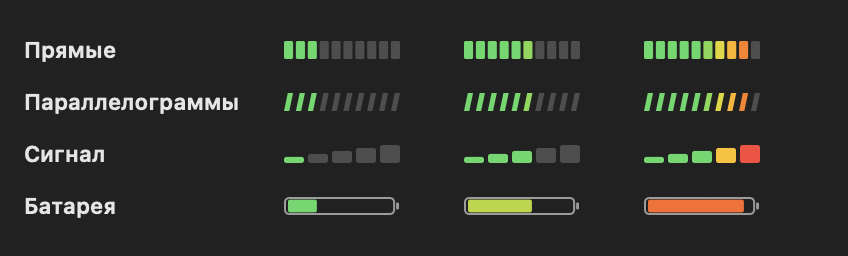
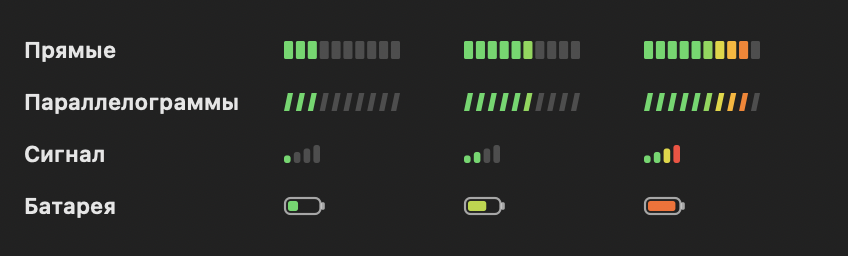
Сигнал и батарея — компактные, естественных пропорций
- Ширина шкалы теперь зависит от формы (shapeWidth), не растягивается на 58px
- Сигнал: 4 узких столбика вплотную, как на iPhone (100%÷4 = 25% на столбик)
- Батарея: пропорции menu-bar батарейки macOS (~2:1) вместо вытянутой
- Превью --shapes рисует формы естественной шириной

diff --git a/ClaudeBar.swift b/ClaudeBar.swift
@@ -142,38 +142,52 @@ func drawSegments(_ rect: NSRect, _ frac: CGFloat, dark: Bool, mono: Bool, skew:
     }
 }
 
-// Форма 2 (сигнал): 5 столбиков растущей высоты, как индикатор сети телефона.
+// Форма 2 (сигнал): 4 узких столбика растущей высоты, компактно — как сеть iPhone.
 func drawSignal(_ rect: NSRect, _ frac: CGFloat, dark: Bool, mono: Bool) {
-    let n = 5, gap: CGFloat = 2.0
+    let n = 4, gap: CGFloat = 1.6
     let bw = (rect.width - CGFloat(n-1)*gap) / CGFloat(n)
     let lit = litCount(frac, n)
-    let minH = rect.height * 0.34
+    let minH = rect.height * 0.42
     for i in 0..<n {
         let h = minH + (rect.height - minH) * CGFloat(i) / CGFloat(n-1)
         let x = rect.minX + CGFloat(i)*(bw+gap)
-        let path = NSBezierPath(roundedRect: NSRect(x: x, y: rect.minY, width: bw, height: h), xRadius: 1.2, yRadius: 1.2)
+        let path = NSBezierPath(roundedRect: NSRect(x: x, y: rect.minY, width: bw, height: h),
+                                xRadius: min(bw/2, 1.3), yRadius: min(bw/2, 1.3))
         (i < lit ? litColor(CGFloat(i)/CGFloat(n-1), mono: mono, dark: dark) : dimColor(dark: dark)).setFill()
         path.fill()
     }
 }
 
-// Форма 3 (батарея): корпус macOS-батарейки с носиком, заливка по доле (моя версия).
+// Форма 3 (батарея): пропорции menu-bar батарейки macOS (корпус + носик), заливка по доле.
 func drawBattery(_ rect: NSRect, _ frac: CGFloat, dark: Bool, mono: Bool) {
-    let nubW = max(1.4, rect.height * 0.16)
-    let body = NSRect(x: rect.minX, y: rect.minY, width: rect.width - nubW - 1, height: rect.height)
-    let stroke = dark ? NSColor(white: 1, alpha: 0.55) : NSColor(white: 0, alpha: 0.45)
-    let outline = NSBezierPath(roundedRect: body.insetBy(dx: 0.5, dy: 0.5), xRadius: 2, yRadius: 2)
-    outline.lineWidth = 1
+    let nubW = max(1.2, rect.height * 0.22)
+    let body = NSRect(x: rect.minX, y: rect.minY, width: rect.width - nubW, height: rect.height)
+    let stroke = dark ? NSColor(white: 1, alpha: 0.6) : NSColor(white: 0, alpha: 0.5)
+    let outline = NSBezierPath(roundedRect: body.insetBy(dx: 0.5, dy: 0.5),
+                               xRadius: rect.height*0.3, yRadius: rect.height*0.3)
+    outline.lineWidth = max(1, rect.height*0.12)
     stroke.setStroke(); outline.stroke()
-    let nub = NSBezierPath(roundedRect: NSRect(x: body.maxX + 0.5, y: rect.minY + rect.height*0.3, width: nubW, height: rect.height*0.4),
-                           xRadius: nubW/2, yRadius: nubW/2)
+    let nubH = rect.height * 0.42
+    let nub = NSBezierPath(roundedRect: NSRect(x: body.maxX - 0.3, y: rect.minY + (rect.height-nubH)/2, width: nubW, height: nubH),
+                           xRadius: nubW*0.4, yRadius: nubW*0.4)
     stroke.setFill(); nub.fill()
-    let inset = body.insetBy(dx: 2, dy: 1.3)
+    let pad = rect.height * 0.22
+    let inner = body.insetBy(dx: pad, dy: pad)
     let f = max(0, min(1, frac))
-    let fw = f <= 0 ? 0 : max(inset.height * 0.4, inset.width * f)
-    let fill = NSBezierPath(roundedRect: NSRect(x: inset.minX, y: inset.minY, width: fw, height: inset.height), xRadius: 1, yRadius: 1)
+    let fw = f <= 0 ? 0 : max(inner.height, inner.width * f)      // мин. = квадратик
+    let fill = NSBezierPath(roundedRect: NSRect(x: inner.minX, y: inner.minY, width: fw, height: inner.height),
+                            xRadius: rect.height*0.14, yRadius: rect.height*0.14)
     (mono ? (dark ? NSColor(white: 0.95, alpha: 1) : NSColor(white: 0.20, alpha: 1)) : meterColor(f)).setFill()
     fill.fill()
+}
+
+// Естественная ширина шкалы под форму: сегменты широкие, сигнал/батарея компактные.
+func shapeWidth(_ shape: Int, _ h: CGFloat) -> CGFloat {
+    switch shape {
+    case 2: return 18          // сигнал — компактный кластер, как на iPhone
+    case 3: return h * 2.3     // батарея — пропорции macOS
+    default: return 58         // сегменты (10 блоков)
+    }
 }
 
 // Диспетчер формы шкалы.
@@ -429,7 +443,7 @@ if argv.count >= 3 && argv[1] == "--shapes" {
         let la = NSAttributedString(string: name, attributes: [.font: NSFont.systemFont(ofSize: 11, weight: .semibold), .foregroundColor: txt])
         la.draw(at: NSPoint(x: pad, y: yMid - la.size().height/2))
         for (fi, frac) in fracs.enumerated() {
-            drawShape(shape, NSRect(x: pad + labelCol + CGFloat(fi)*cellW, y: yMid - 4.5, width: 58, height: 9),
+            drawShape(shape, NSRect(x: pad + labelCol + CGFloat(fi)*cellW, y: yMid - 4.5, width: shapeWidth(shape, 9), height: 9),
                       frac, dark: dark, mono: false)
         }
     }
@@ -521,12 +535,12 @@ final class AppDelegate: NSObject, NSApplicationDelegate {
         let numFont = NSFont.monospacedDigitSystemFont(ofSize: single ? 9.5 : 8, weight: .medium)
         let labelW: CGFloat = showLabel ? 15 : 0
         let labelGap: CGFloat = showLabel ? 4 : 0
-        let barW: CGFloat = 58
+        let H: CGFloat = 18
+        let barH: CGFloat = single ? 9 : 6
+        let barW: CGFloat = shapeWidth(barShape, barH)
         let numGap: CGFloat = showPercent ? 4 : 0
         let numW: CGFloat = showPercent ? 25 : 0
         let W = ceil(labelW + labelGap + barW + numGap + numW)
-        let H: CGFloat = 18
-        let barH: CGFloat = single ? 9 : 6
         let yMids: [CGFloat] = single ? [9] : [13, 5]
 
         let img = NSImage(size: NSSize(width: max(W, 12), height: H))